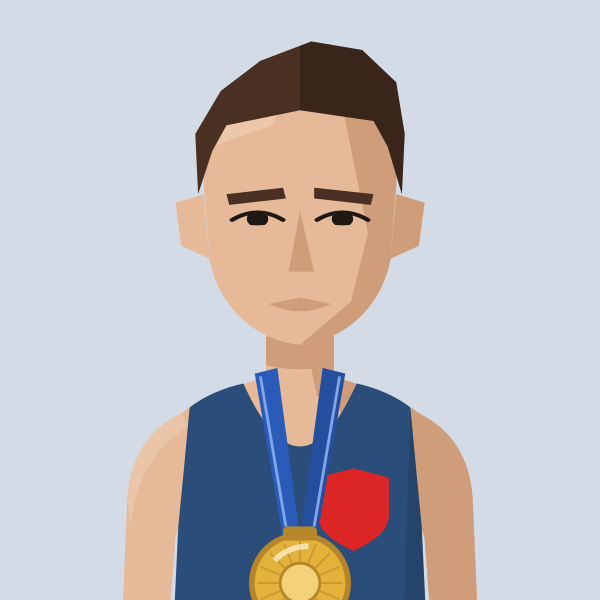
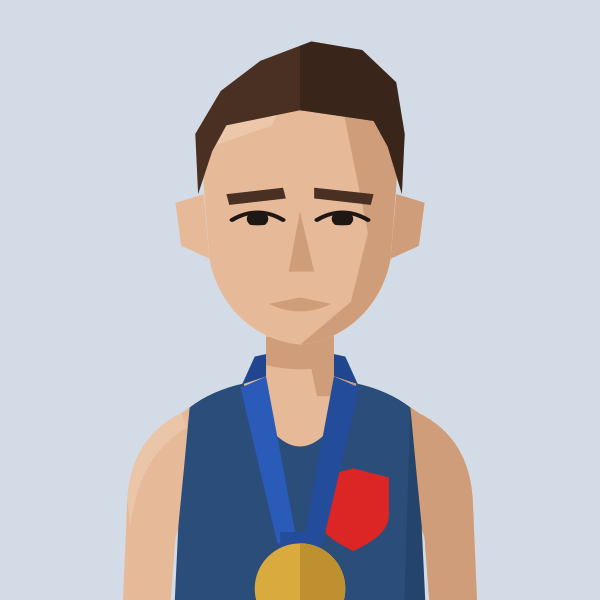
Alex Yee: flat geometric medal, ribbon loops behind the neck
Claude-Session: https://claude.ai/code/session_01MgmDWhFqnSSnP4iBLKXUZC

Changed region(s): [[0.39, 0.57, 0.6, 1.0]]

diff --git a/tools/gen_portraits.py b/tools/gen_portraits.py
@@ -138,6 +138,7 @@ def figure(kit, mode="custom", skin=1, hair="crop", hair_colour="dark brown", fa
     if custom and hair in HAIR_BACK:
         o.append(f'<g {SQ} fill="{hc}">{HAIR_BACK[hair]}<g clip-path="url(#r{tag})" fill="#000" opacity=".22">{HAIR_BACK[hair]}</g></g>')
     # lean body: one shape (open at the neck so outlines stay clean), neck drawn first
+    if medal: o.append('<path d="M84,186 Q100,182 116,186 L121,197 L79,197 Z" fill="#1F468E"/>')
     o.append(f'<rect x="88" y="171" width="24" height="37" fill="{sk}"{st}/>')
     o.append(f'<path d="M88,193 C76,197 66,200 58,206 C46,212 40,222 39,236 L35,330 L50,330 L56,250 Q59,240 64,238 L136,238 Q141,240 144,250 L150,330 L165,330 L161,236 C160,222 154,212 142,206 C134,200 124,197 112,193" fill="{sk}"{st}/>')
     if not line:
@@ -246,14 +247,12 @@ def figure(kit, mode="custom", skin=1, hair="crop", hair_colour="dark brown", fa
     # kit: the site's own vest icon, scaled into this vest
     if not jacket: o.append(f'<g clip-path="url(#v{tag})"><path d="{VEST}" fill="{primary}"/><g {KIT_MAP}>{extras}</g>'
              f'<path d="M139,204 Q141,226 143,246 L147,330 L135,330 Z" fill="#000" opacity="{0 if line else .12}"/></g>')
-    if medal:  # Olympic-style medal on a ribbon round the neck
-        mc = {"gold": ("#E2B23A", "#B8862A", "#F4D27A")}[medal]
-        o.append('<path d="M84,192 L94,250 L100,250 L92,190 Z" fill="#2B5BB8"/><path d="M116,192 L106,250 L100,250 L108,190 Z" fill="#244E9E"/>'
-                 '<path d="M86,193 L95,246 M114,193 L105,246" stroke="#7FA6E8" stroke-width="1"/>'
-                 f'<circle cx="100" cy="266" r="17" fill="{mc[0]}" stroke="{mc[1]}" stroke-width="2"/>'
-                 + "".join(f'<path d="M100,266 L{100+15*__import__("math").cos(a*0.3927):.1f},{266+15*__import__("math").sin(a*0.3927):.1f}" stroke="{mc[1]}" stroke-width=".7" opacity=".55"/>' for a in range(16))
-                 + f'<circle cx="100" cy="266" r="7" fill="{mc[2]}" stroke="{mc[1]}" stroke-width="1"/><path d="M91,258 Q96,253 103,253" stroke="#FFF6D8" stroke-width="2" fill="none" opacity=".7"/>'
-                 '<rect x="94" y="246" width="12" height="5" rx="1.5" fill="#B8862A"/>')
+    if medal:  # medal on a ribbon that loops round the back of the neck
+        mc = {"gold": ("#D9AA3E", "#BE9030")}[medal]
+        o.append('<path d="M79,197 L88,193 L99,252 L92,252 Z" fill="#2B5BB8"/><path d="M121,197 L112,193 L101,252 L108,252 Z" fill="#234C9A"/>'
+                 '<rect x="93" y="248" width="14" height="6" fill="#234C9A"/>'
+                 f'<circle cx="100" cy="268" r="16" fill="{mc[0]}"/>'
+                 f'<path d="M100,252 A16,16 0 0 1 100,284 Z" fill="{mc[1]}"/>')
     if stars:
         import math
         stars_gold = "#CCAD6A"
